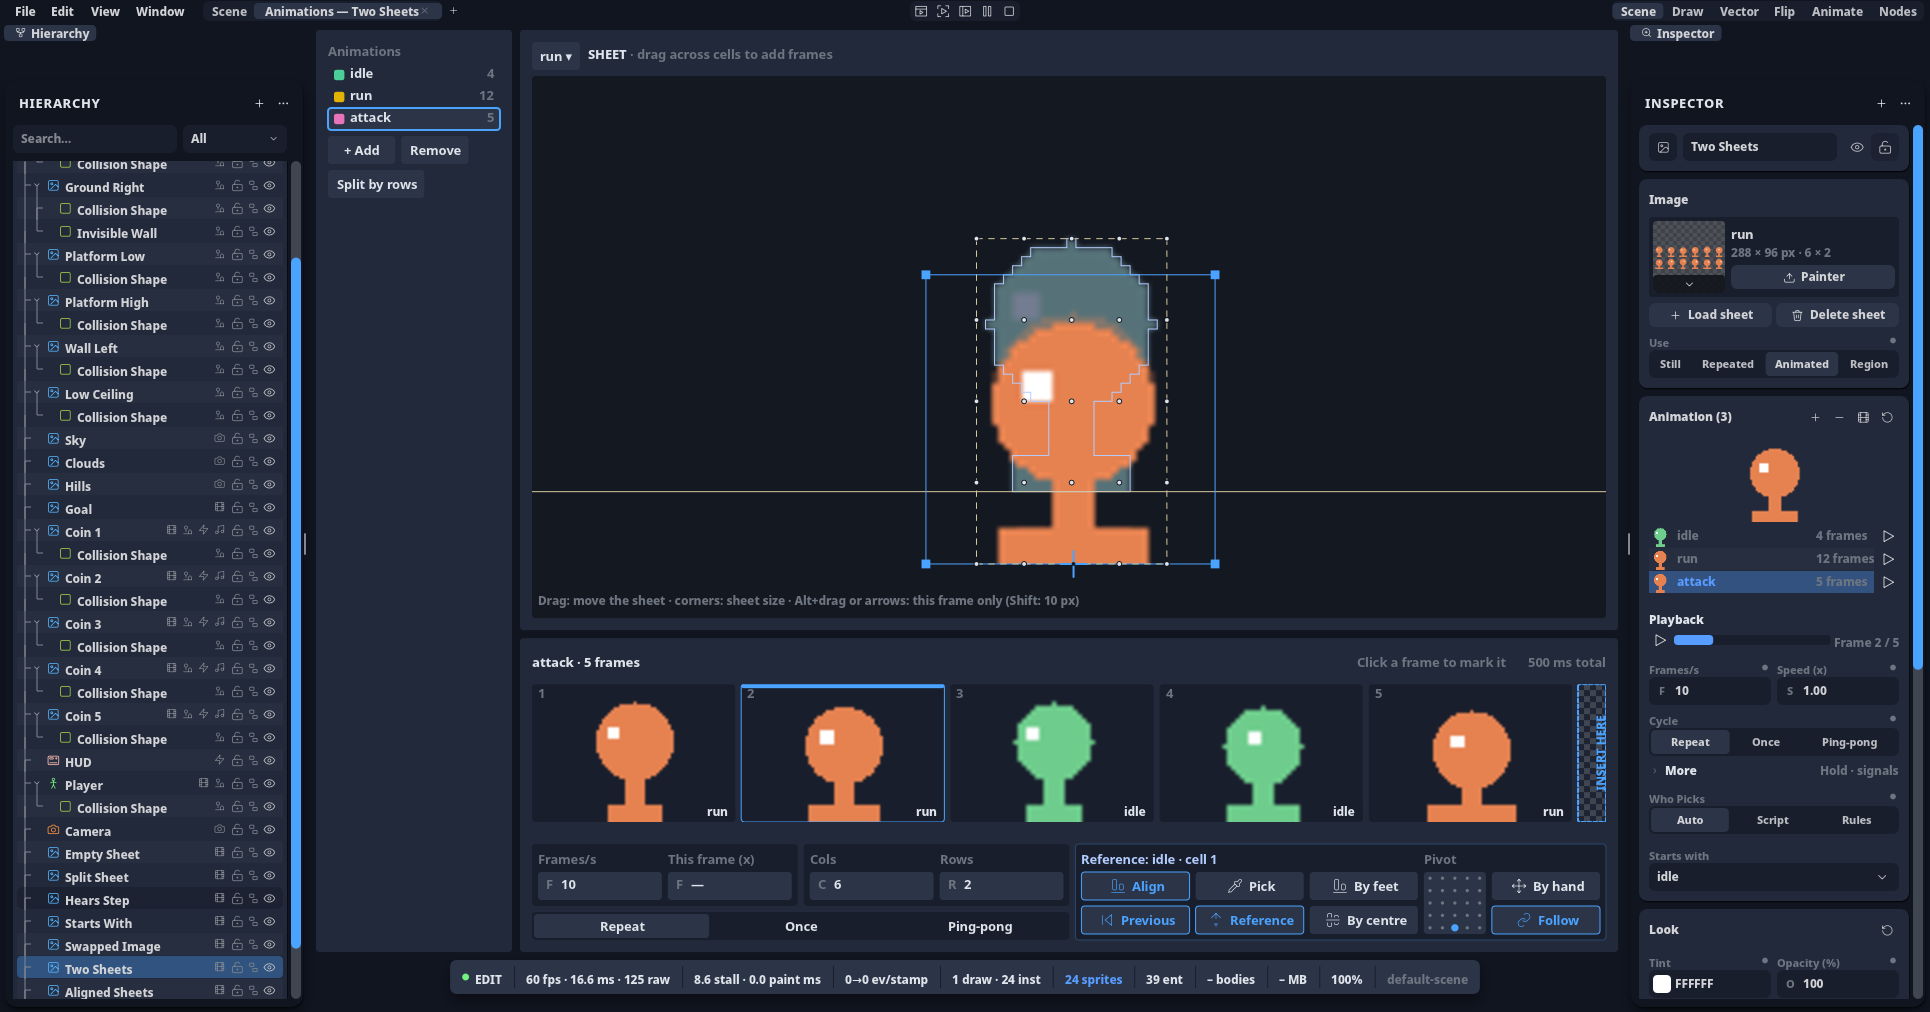
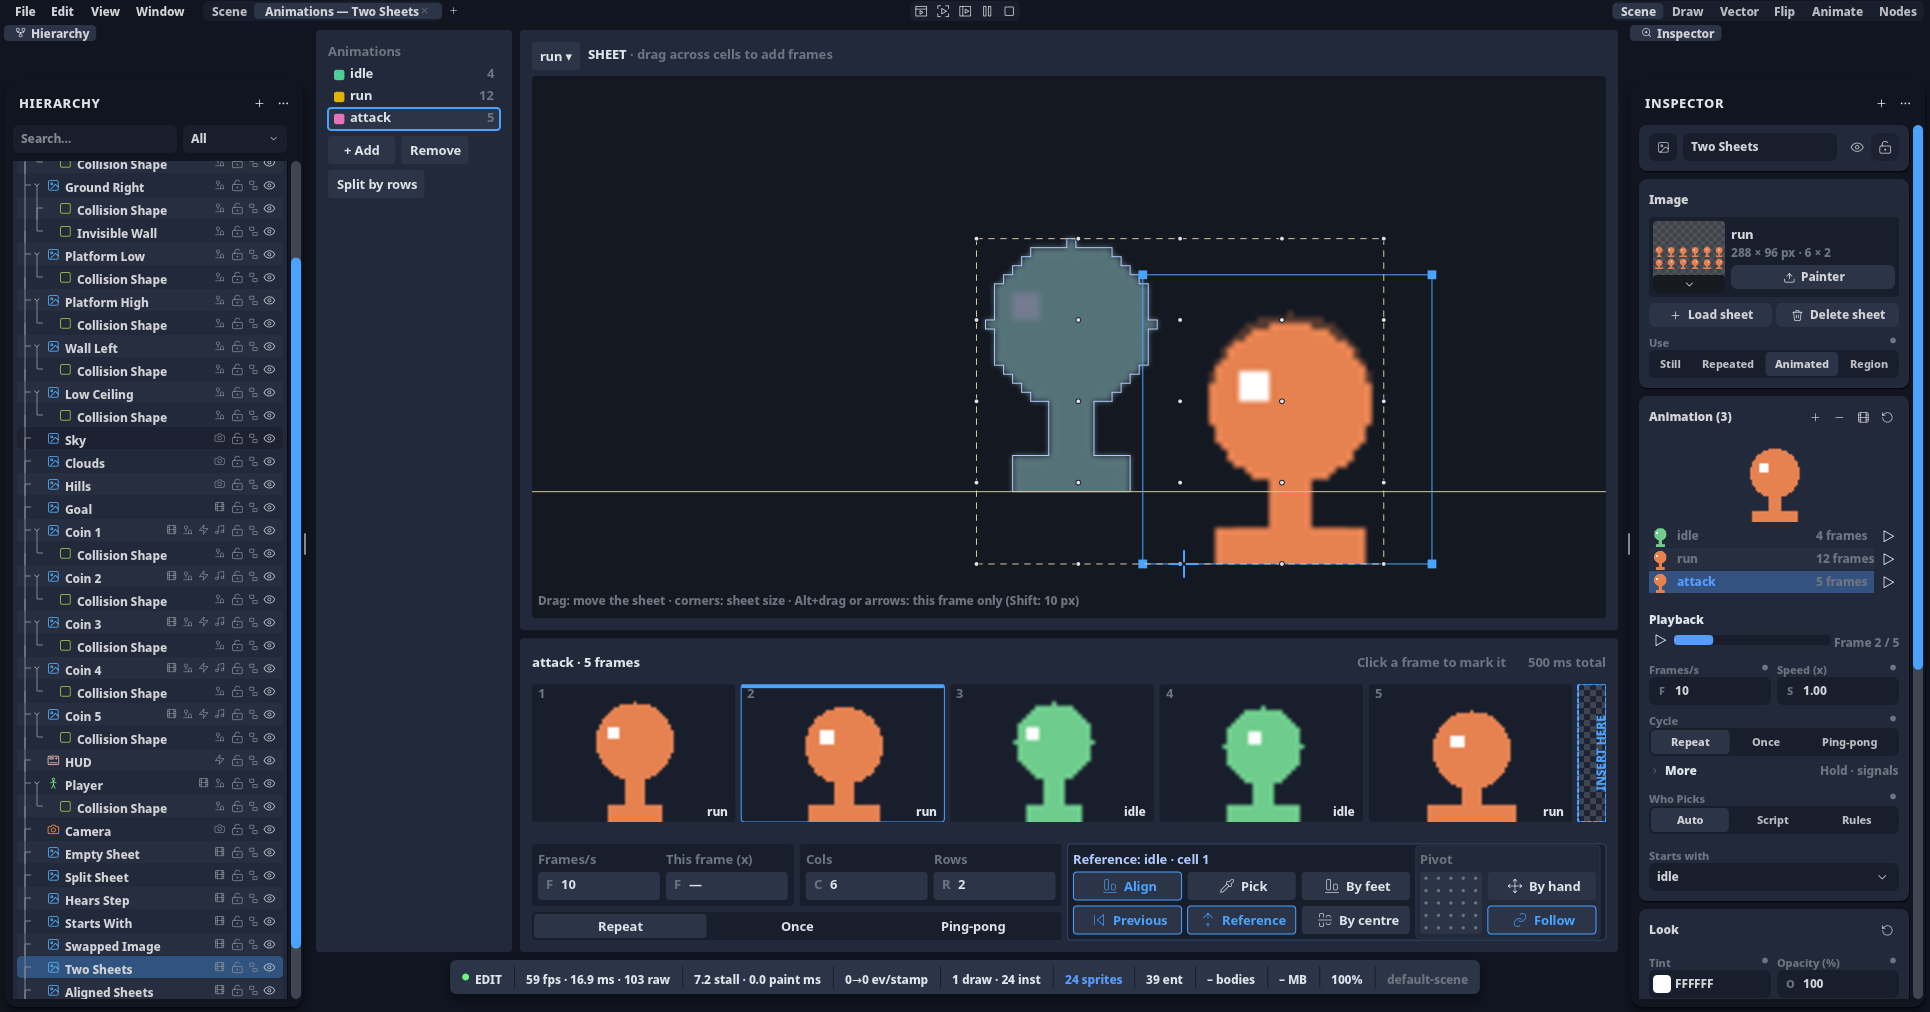
fix(GEF 29): o Follow segue o arrasto da folha (smoke do dono 09/11) + submoldura do Pivot
- Causa: um arrasto espalha as edições por vários quadros; o do soltar pode não trazer nenhuma, e o
  `pivot_follow(moved=false)` remedia a fração com o desenho já movido. Cura: `PivotUi::dirty` acumula o «mexeu»
  durante o gesto e o Follow age no quadro em que ele acaba.
- Gate `com_o_follow_o_pivot_acompanha_o_redimensionamento` agora solta num quadro à parte (vermelho sem a cura,
  medido).
- Janela real (`animado_pivot_segue_desfaz`): o Pivot segue a folha arrastada, e UM Ctrl+Z devolve folha e Pivot ao
  estado de depois da escala (âncoras iguais nos dois relatos).
- Moldura: a coluna do Pivot numa submoldura (`AlignLayout::pivot_frame`, Bg1 com fio Bg3).

diff --git a/crates/ph2d-sprite-anim-scene/src/lib.rs b/crates/ph2d-sprite-anim-scene/src/lib.rs
@@ -128,6 +128,8 @@ pub enum Foto {
     /// …e o «Follow» (dono 09/11): o Pivot em «Bottom», o Follow ligado e a `run` reduzida a 2/3 pela quina; o Pivot
     /// acompanha e continua no ponto.
     PivoSegue,
+    /// …e depois a folha arrastada para o lado (o Pivot segue) e um Ctrl+Z: a folha e o Pivot voltam juntos.
+    PivoSegueDesfaz,
 }
 
 #[must_use]
@@ -169,6 +171,7 @@ pub fn foto() -> Option<Foto> {
         "animado_pivot_desfaz" => Some(Foto::PivoDesfaz),
         "animado_pivot_mao" => Some(Foto::PivoMao),
         "animado_pivot_segue" => Some(Foto::PivoSegue),
+        "animado_pivot_segue_desfaz" => Some(Foto::PivoSegueDesfaz),
         _ => None,
     }
 }
@@ -179,7 +182,12 @@ impl Foto {
     pub const fn pivo_no_editor(self) -> bool {
         matches!(
             self,
-            Self::PivoAntes | Self::PivoPes | Self::PivoDesfaz | Self::PivoMao | Self::PivoSegue
+            Self::PivoAntes
+                | Self::PivoPes
+                | Self::PivoDesfaz
+                | Self::PivoMao
+                | Self::PivoSegue
+                | Self::PivoSegueDesfaz
         )
     }
 
@@ -220,6 +228,7 @@ impl Foto {
             | Self::PivoDesfaz
             | Self::PivoMao
             | Self::PivoSegue
+            | Self::PivoSegueDesfaz
             | Self::IdleQuadro(_) => DUAS,
             Self::AlinhadasIdle | Self::AlinhadasRun => ALINHADAS,
             Self::Desalinhadas | Self::DesalinhadasAcertadas => DESALINHADAS,
@@ -413,7 +422,12 @@ fn previa_align(q: u32, foto: Option<Foto>) -> Vec<Passo> {
     if let Some(f) = foto.filter(|f| {
         matches!(
             f,
-            Foto::PivoAntes | Foto::PivoPes | Foto::PivoDesfaz | Foto::PivoMao | Foto::PivoSegue
+            Foto::PivoAntes
+                | Foto::PivoPes
+                | Foto::PivoDesfaz
+                | Foto::PivoMao
+                | Foto::PivoSegue
+                | Foto::PivoSegueDesfaz
         )
     }) {
         return pivo_no_editor(q, f);
@@ -490,7 +504,9 @@ fn pes(q: u32, f: Foto) -> Vec<Passo> {
 /// «attack»; o ponto «Bottom» da grade, ou o «By hand» e a cruz arrastada; e (na foto do desfazer) um Ctrl+Z.
 fn pivo_no_editor(q: u32, f: Foto) -> Vec<Passo> {
     use Passo as P;
-    let pes = matches!(f, Foto::PivoPes | Foto::PivoDesfaz | Foto::PivoSegue);
+    let segue = matches!(f, Foto::PivoSegue | Foto::PivoSegueDesfaz);
+    let pes = segue || matches!(f, Foto::PivoPes | Foto::PivoDesfaz);
+    let desfaz = matches!(f, Foto::PivoDesfaz | Foto::PivoSegueDesfaz);
     match q {
         20 => vec![
             P::Anim(DUAS, Ed::SetCurrent("attack".into())),
@@ -500,11 +516,16 @@ fn pivo_no_editor(q: u32, f: Foto) -> Vec<Passo> {
         30 => vec![P::Relata("pivô antes".into(), DUAS)],
         32 | 33 if pes => vec![P::Alinha(DUAS, (q - 22) as u8)],
         32..=37 if f == Foto::PivoMao => vec![P::Alinha(DUAS, (q - 20) as u8)],
-        34 | 35 if f == Foto::PivoSegue => vec![P::Alinha(DUAS, (q - 16) as u8)],
-        36..=41 if f == Foto::PivoSegue => vec![P::Alinha(DUAS, (q - 34) as u8)],
-        40 => vec![P::Relata("pivô depois".into(), DUAS)],
-        50 if f == Foto::PivoDesfaz => vec![P::Desfaz],
-        60 if f == Foto::PivoDesfaz => vec![P::Relata("pivô 1 Ctrl+Z".into(), DUAS)],
+        // O Follow: ligado (18/19), a quina (2..=7), relato, a folha arrastada (20..=22) em quadros distintos.
+        34 if segue => vec![P::Relata("pivô no ponto".into(), DUAS)],
+        35 | 36 if segue => vec![P::Alinha(DUAS, (q - 17) as u8)],
+        38..=43 if segue => vec![P::Alinha(DUAS, (q - 36) as u8)],
+        44 if segue => vec![P::Relata("pivô depois da escala".into(), DUAS)],
+        45..=47 if segue => vec![P::Alinha(DUAS, (q - 25) as u8)],
+        49 if segue => vec![P::Relata("pivô seguiu a folha".into(), DUAS)],
+        40 if !segue => vec![P::Relata("pivô depois".into(), DUAS)],
+        50 if desfaz => vec![P::Desfaz],
+        60 if desfaz => vec![P::Relata("pivô 1 Ctrl+Z".into(), DUAS)],
         _ => Vec::new(),
     }
 }

diff --git a/crates/ph2d-anim-editor/src/layout.rs b/crates/ph2d-anim-editor/src/layout.rs
@@ -283,7 +283,9 @@ impl AnimDoc {
         ]) + row;
         // A coluna do Pivot (GEF 29): a grade 5 × 5 com a altura das duas filas, e o «By hand» ao lado.
         let pivot_side = row + gap + row;
-        let pivot_w = gap + pivot_side + gap + align_button;
+        // A submoldura do Pivot (dono 09/11): um recuo de cada lado.
+        let sub = Spacing::Xs.px();
+        let pivot_w = gap + sub + pivot_side + gap + align_button + sub;
         let three = 3.0 * align_button + 2.0 * group_pad + 2.0 * gap; // LITERAL-PX-OK: três botões, as margens e os vãos
         // Numa aba estreita a coluna do Pivot desce para baixo dos botões: a moldura nunca sai da aba.
         let pivot_under = three + pivot_w > card_w;
@@ -306,7 +308,11 @@ impl AnimDoc {
         };
         let align_below = align_w > 0.0 && !cabe(beside);
         let align_h = 2.0 * group_pad + line + row + gap + row // LITERAL-PX-OK: as margens e as duas filas
-            + if pivot_under { gap + line + pivot_side } else { 0.0 };
+            + if pivot_under {
+                gap + line + pivot_side + 2.0 * sub // LITERAL-PX-OK: o recuo de cima e o de baixo
+            } else {
+                0.0
+            };
         let left_w = if align_w > 0.0 && !align_below {
             beside
         } else {
@@ -425,15 +431,22 @@ impl AnimDoc {
             let col3 = bx + 2.0 * (align_button + gap); // LITERAL-PX-OK: a terceira coluna
             l.align.by_feet = Rect::new(col3, fila(0.0), align_button, row);
             l.align.by_centre = Rect::new(col3, fila(1.0), align_button, row);
-            let (col4, py) = if pivot_under {
-                (bx, fila(2.0))
+            let (sub_x, py) = if pivot_under {
+                (bx, fila(2.0) + sub)
             } else {
                 (col3 + align_button + gap, by)
             };
+            let col4 = sub_x + sub;
+            l.align.pivot_frame = Rect::new(
+                sub_x,
+                py - sub,
+                pivot_side + gap + align_button + 2.0 * sub, // LITERAL-PX-OK: os dois recuos
+                line + pivot_side + 2.0 * sub,               // LITERAL-PX-OK: os dois recuos
+            );
             let titulo_w = if pivot_under {
                 f.w - 2.0 * group_pad
             } else {
-                col4 - gap - bx
+                sub_x - gap - bx
             }; // LITERAL-PX-OK: as duas margens
             l.align.title = Rect::new(bx, by, titulo_w.max(0.0), line);
             l.align.pivot_title = Rect::new(col4, py, pivot_side + gap + align_button, line);

diff --git a/shells/desktop/src/janela_do_jogo_animado.rs b/shells/desktop/src/janela_do_jogo_animado.rs
@@ -203,10 +203,11 @@ impl crate::App {
                     d.layout.align.pivot_grid,
                     d.layout.align.by_hand,
                     d.layout.align.pivot_follow,
+                    d.layout.align.preview,
                 ),
             ))
         });
-        let Some((toggle, pes, p, (grade, mao, segue))) = doc else {
+        let Some((toggle, pes, p, (grade, mao, segue, previa))) = doc else {
             return eprintln!("[animado-prova] align: o editor não está aberto");
         };
         let c = |r: ph2d_editor_core::zones::Rect| (r.x + r.w / 2.0, r.y + r.h / 2.0);
@@ -221,6 +222,16 @@ impl crate::App {
             // O Pivot (GEF 29): «Bottom» é a casa do meio da última fila da grade 5 × 5.
             (10, _) => self.smoke_pointer_down(grade.x + grade.w / 2.0, grade.y + grade.h * 0.9),
             (12, _) => self.smoke_pointer_down(c(mao).0, c(mao).1),
+            // A folha arrastada para o lado, o soltar noutro quadro (o Follow, smoke do dono 09/11).
+            (20, _) => self.smoke_pointer_down(c(previa).0, c(previa).1),
+            (21 | 22, _) => {
+                let (x, y) = (c(previa).0 + previa.w * 0.2, c(previa).1);
+                if fase == 21 {
+                    self.smoke_pointer_move(x, y);
+                } else {
+                    self.smoke_pointer_up();
+                }
+            }
             (14..=16, _) => {
                 let (Some((ox, oy)), Some(r)) = (p.pivot, p.all_frames) else {
                     return eprintln!("[animado-prova] pivô: sem cruz ou sem caixa");

diff --git a/crates/ph2d-anim-editor/src/align_pivot.rs b/crates/ph2d-anim-editor/src/align_pivot.rs
@@ -30,6 +30,9 @@ pub struct PivotUi {
     pub follow: bool,
     /// Onde o Pivot está na caixa de todos os quadros, em frações dela desde baixo-esquerda (medido fora de gestos).
     frac: Option<[f32; 2]>,
+    /// O desenho mexeu desde a última fração medida: um arrasto espalha as edições por vários quadros, e o último
+    /// pode não trazer nenhuma (smoke do dono 09/11: arrastou a folha e o Pivot não seguiu).
+    dirty: bool,
     boxes: BTreeMap<CellKey, Option<[f32; 4]>>,
 }
 
@@ -177,6 +180,7 @@ impl AnimDoc {
     /// o passo do Pivot que o leva ao mesmo lugar da caixa de todos os quadros onde estava antes do gesto: a família
     /// aplica-o no mesmo quadro, e o Ctrl+Z desfaz os dois juntos.
     pub fn pivot_follow(&mut self, moved: bool) -> Option<[f32; 2]> {
+        self.align.pivot.dirty |= moved;
         if self.align_gesture_active() {
             return None; // a meio do gesto, a fração de antes fica guardada
         }
@@ -185,7 +189,7 @@ impl AnimDoc {
         if size[0] <= 0.0 || size[1] <= 0.0 {
             return None;
         }
-        if moved
+        if std::mem::take(&mut self.align.pivot.dirty)
             && self.align.pivot.follow
             && let Some(f) = self.align.pivot.frac
         {

diff --git a/crates/ph2d-anim-editor/src/paint_pivot.rs b/crates/ph2d-anim-editor/src/paint_pivot.rs
@@ -9,7 +9,7 @@ use super::paint_align::{Look, chip};
 use ph2d_card_stack::metrics as m;
 use ph2d_editor_core::IconId;
 use ph2d_editor_core::paint::{
-    fill_circle, fill_rounded_rect, frame_radius, paint_text, stroke_polyline,
+    fill_circle, fill_rounded_rect, frame_radius, paint_text, stroke_polyline, stroke_rounded_rect,
 };
 use ph2d_editor_core::zones::Rect;
 use ph2d_i18n::tr;
@@ -33,6 +33,12 @@ pub(super) fn paint_pivot_column(
         return;
     }
     let on = doc.align.on;
+    // A submoldura: o Pivot é um assunto à parte dentro do Align.
+    let sub = l.pivot_frame;
+    let raio = frame_radius(theme, m::FIELD_RADIUS);
+    fill_rounded_rect(scene, sub, raio, tom(ColorToken::Bg1, theme));
+    let fio = StrokeToken::Thin.px();
+    stroke_rounded_rect(scene, sub, raio, fio, tom(ColorToken::Bg3, theme));
     let font = TypeToken::Base.px();
     let t = l.pivot_title;
     let title_c = if on {
@@ -74,7 +80,6 @@ pub(super) fn paint_pivot_column(
         }
     }
     let hand = (IconId::Move, tr("anim_editor.pivot_by_hand"));
-    let fio = StrokeToken::Thin.px();
     chip(
         scene,
         text,

diff --git a/shells/game-scenes/tests/it/editor_animacoes/pivot.rs b/shells/game-scenes/tests/it/editor_animacoes/pivot.rs
@@ -243,7 +243,14 @@ fn com_o_follow_o_pivot_acompanha_o_redimensionamento() {
         m.paint();
         let pv = m.doc().layout.align.preview;
         let c = centre(pv);
-        m.drag(c, (c.0 + pv.w * 0.3, c.1), Modifiers::default());
+        // Como na mão do dono: o movimento num quadro da tela, o soltar noutro, sem movimento novo.
+        let longe = (c.0 + pv.w * 0.3, c.1);
+        let b = ph2d_host::PointerButton::Primary;
+        m.pointer_with(ph2d_host::PointerKind::Down, b, c, Modifiers::default());
+        m.pointer_with(ph2d_host::PointerKind::Move, b, longe, Modifiers::default());
+        m.frame();
+        m.paint();
+        m.pointer_with(ph2d_host::PointerKind::Up, b, longe, Modifiers::default());
         assert!(
             !m.sheet_edits()
                 .iter()

diff --git a/crates/ph2d-anim-editor/src/align.rs b/crates/ph2d-anim-editor/src/align.rs
@@ -34,6 +34,7 @@ pub struct AlignLayout {
     pub by_feet: Rect,
     pub by_centre: Rect,
     /// A coluna do Pivot (GEF 29): o rótulo, a grade 5 × 5, o «By hand» e o «Follow».
+    pub pivot_frame: Rect,
     pub pivot_title: Rect,
     pub pivot_grid: Rect,
     pub by_hand: Rect,
